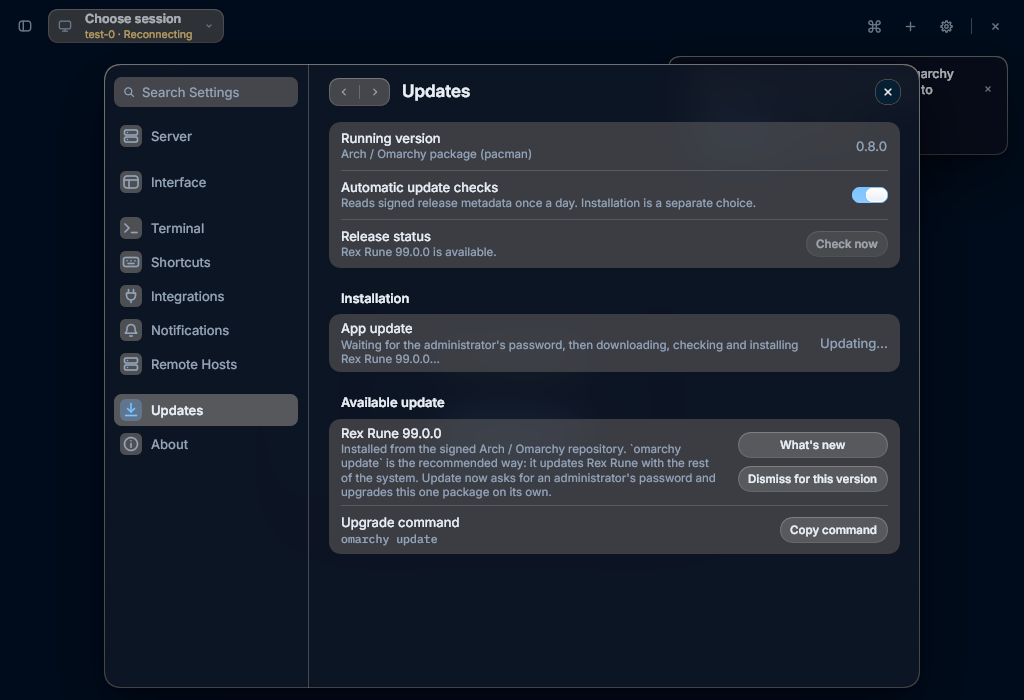
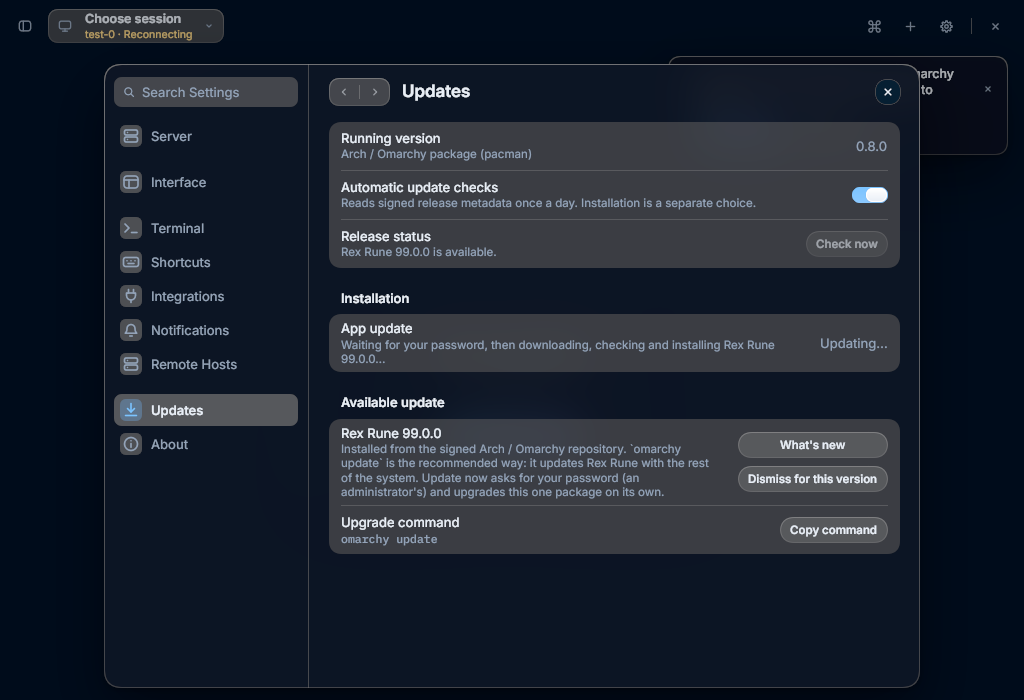
Review fixes: restart into the package's client, truer refusal sentences, 'your password', stated limits

Changed region(s): [[0.3438, 0.66, 0.6875, 0.72], [0.3438, 0.48, 0.7812, 0.54]]

diff --git a/src/app/updates_tests.rs b/src/app/updates_tests.rs
@@ -261,12 +261,16 @@ fn a_pacman_install_offers_update_now_only_with_its_own_helper() {
     let _families = rune::text::with_families("Inter", "Inter");
     for omarchy in [false, true] {
         let mut ws = pacman_workspace(omarchy);
+        ws.settings.updates.install_automatically = true;
         ws.open_updates_settings();
         let mut rt = runtime(ws);
         settle(&mut rt);
         assert!(has(&rt, "updates-install-now"));
         // Says what the button will do, and the command is still there to copy.
-        assert!(page_says(&rt, "asks for an administrator's password"));
+        assert!(page_says(
+            &rt,
+            "asks for your password (an administrator's)"
+        ));
         assert!(page_says(&rt, "this one package"));
         assert!(has(&rt, "updates-copy-command"));
         assert_eq!(
@@ -282,14 +286,16 @@ fn a_pacman_install_offers_update_now_only_with_its_own_helper() {
             }
         ));
         // Installing on its own is for install.sh installs: it would open a password
-        // dialog nobody asked for.
+        // dialog nobody asked for. The switch is not shown even if the preference was
+        // left on by such an install.
+        assert!(rt.state.settings.updates.install_automatically);
         assert!(!has(&rt, "updates-install-auto-switch"));
 
         // No helper (a package from before it, or no polkit): instructions only, as before.
         rt.update(|s, _| s.updates.pacman = None);
         settle(&mut rt);
         assert!(!has(&rt, "updates-install-now"));
-        assert!(!page_says(&rt, "administrator's password"));
+        assert!(!page_says(&rt, "asks for your password"));
         assert!(has(&rt, "updates-copy-command"));
         rt.state.install_update_now();
         assert!(matches!(rt.state.updates.installation, Installation::Idle));
@@ -341,14 +347,14 @@ fn a_pacman_update_reports_each_ending_and_restarts_only_after_an_upgrade() {
         rt.state.updates.installation,
         Installation::Working(_)
     ));
-    assert!(page_says(&rt, "Waiting for the administrator's password"));
+    assert!(page_says(&rt, "Waiting for your password"));
     assert!(!has(&rt, "updates-install-now"));
     assert!(!has(&rt, "updates-restart"));
     rt.state.check_updates_now();
     assert!(!rt.state.updates.checking, "no check during an update");
 
     // The dialog was closed: not a failure, nothing to restart, the button is back.
-    rt.update(|s, _| s.finish_pacman_update(Outcome::Dismissed, "/nonexistent/rex-rune".into()));
+    rt.update(|s, _| s.finish_pacman_update(Outcome::Dismissed));
     settle(&mut rt);
     assert!(matches!(rt.state.updates.installation, Installation::Idle));
     assert!(has(&rt, "updates-install-now"));
@@ -363,7 +369,7 @@ fn a_pacman_update_reports_each_ending_and_restarts_only_after_an_upgrade() {
 
     // Every refusal says why, never offers Restart, and leaves the command to copy.
     for (refusal, words) in [
-        (Refusal::NotAuthorized, "administrator's password"),
+        (Refusal::NotAuthorized, "probably no agent is running"),
         (Refusal::NotNewer, "already this version or newer"),
         (Refusal::HeldBack, "IgnorePkg"),
         (Refusal::Busy, "another pacman is running"),
@@ -371,16 +377,17 @@ fn a_pacman_update_reports_each_ending_and_restarts_only_after_an_upgrade() {
         (Refusal::Signature, "not signed by the Rex package key"),
         (Refusal::Untrusted, "pacman keyring does not trust"),
         (Refusal::WrongPackage, "something other than the package"),
-        (Refusal::OtherPackages, "other packages"),
+        (
+            Refusal::OtherPackages,
+            "could not work out how to install it",
+        ),
         (Refusal::Pacman, "journalctl -t rex-rune-update"),
         (Refusal::Unsupported, "systemd"),
         (Refusal::NoPkexec, "pkexec could not be started"),
         (Refusal::Unexpected(Some(1)), "exit code 1"),
-        (Refusal::Unexpected(None), "did not finish"),
+        (Refusal::Unexpected(None), "may still finish"),
     ] {
-        rt.update(|s, _| {
-            s.finish_pacman_update(Outcome::Refused(refusal), "/nonexistent/rex-rune".into())
-        });
+        rt.update(|s, _| s.finish_pacman_update(Outcome::Refused(refusal)));
         settle(&mut rt);
         assert!(
             matches!(&rt.state.updates.installation, Installation::Failed(e) if e.contains(words)),
@@ -392,9 +399,9 @@ fn a_pacman_update_reports_each_ending_and_restarts_only_after_an_upgrade() {
         assert!(has(&rt, "updates-install-now") && has(&rt, "updates-copy-command"));
     }
 
-    // An upgrade: Restart to finish, with the path this client was started from.
+    // An upgrade: Restart to finish.
     let restart = rt.state.restart.clone();
-    rt.update(|s, _| s.finish_pacman_update(Outcome::Installed, "/nonexistent/rex-rune".into()));
+    rt.update(|s, _| s.finish_pacman_update(Outcome::Installed));
     settle(&mut rt);
     assert!(has(&rt, "updates-restart"));
     assert!(!has(&rt, "updates-install-now"));
@@ -404,9 +411,11 @@ fn a_pacman_update_reports_each_ending_and_restarts_only_after_an_upgrade() {
         Installation::Ready(_)
     ));
     click(&mut rt, "updates-restart");
+    // The client the package installs, whatever path this process was started from: after
+    // a system upgrade under a running client, that path names a deleted file.
     assert_eq!(
         *restart.lock().unwrap(),
-        Some(std::path::PathBuf::from("/nonexistent/rex-rune"))
+        Some(std::path::PathBuf::from("/usr/bin/rex-rune"))
     );
     let _ = std::fs::remove_file(&rt.state.settings_path);
 }
@@ -494,15 +503,10 @@ fn pacman_update_draw() {
     click(&mut rt, "updates-install-now");
     settle(&mut rt);
     camera.snap(&mut rt, "pacman-update-waiting");
-    rt.update(|s, _| {
-        s.finish_pacman_update(
-            Outcome::Refused(Refusal::NotAuthorized),
-            "/nonexistent/rex-rune".into(),
-        )
-    });
+    rt.update(|s, _| s.finish_pacman_update(Outcome::Refused(Refusal::NotAuthorized)));
     settle(&mut rt);
     camera.snap(&mut rt, "pacman-update-refused");
-    rt.update(|s, _| s.finish_pacman_update(Outcome::Installed, "/nonexistent/rex-rune".into()));
+    rt.update(|s, _| s.finish_pacman_update(Outcome::Installed));
     settle(&mut rt);
     camera.snap(&mut rt, "pacman-update-ready");
 }

diff --git a/src/app/updates.rs b/src/app/updates.rs
@@ -13,7 +13,7 @@ use rex_rune::update::{
     InstallChannel, STARTUP_DELAY, UpdateState, check_for_updates,
     installer::{self, Progress},
     now_epoch_secs,
-    pacman::{Helper, Outcome},
+    pacman::{CLIENT, Helper, Outcome},
 };
 use rune::{Cursor, El, Tx, col, el, row, text};
 use rune_kit::Switch;
@@ -52,8 +52,8 @@ pub struct Updates {
 }
 
 /// The pacman install's own words once Update now can be offered for it.
-const PACMAN_DETAIL: &str = "Installed from the signed Arch repository. Update now asks for an administrator's password and upgrades this one package; restart when ready.";
-const OMARCHY_DETAIL: &str = "Installed from the signed Arch / Omarchy repository. `omarchy update` is the recommended way: it updates Rex Rune with the rest of the system. Update now asks for an administrator's password and upgrades this one package on its own.";
+const PACMAN_DETAIL: &str = "Installed from the signed Arch repository. Update now asks for your password (an administrator's) and upgrades this one package; restart when ready.";
+const OMARCHY_DETAIL: &str = "Installed from the signed Arch / Omarchy repository. `omarchy update` is the recommended way: it updates Rex Rune with the rest of the system. Update now asks for your password (an administrator's) and upgrades this one package on its own.";
 
 /// Whether this pacman install is Rex's own package, which is the one that has the helper.
 /// A package from elsewhere says how to update it in its marker (`custom_hint`).
@@ -559,17 +559,15 @@ impl Workspace {
     /// dialog and then for the whole update. The helper reports nothing until it ends.
     fn update_pacman_package(&mut self, helper: Helper, version: String) {
         self.updates.installation = Installation::Working(format!(
-            "Waiting for the administrator's password, then downloading, checking and installing Rex Rune {}…",
+            "Waiting for your password, then downloading, checking and installing Rex Rune {}…",
             rex_rune::format_version(&version)
         ));
-        // Where this client is, read before the package replaces the file there.
-        let binary = std::env::current_exe().unwrap_or_else(|_| "/usr/bin/rex-rune".into());
         let handle = self.handle.clone();
         let spawn = std::thread::Builder::new()
             .name("rex-pacman-update".into())
             .spawn(move || {
                 let outcome = helper.update(&version);
-                handle.update(move |s, _| s.finish_pacman_update(outcome, binary));
+                handle.update(move |s, _| s.finish_pacman_update(outcome));
             });
         if let Err(error) = spawn {
             self.updates.installation =
@@ -577,13 +575,14 @@ impl Workspace {
         }
     }
 
-    /// What the helper's exit means here. Only an upgrade offers Restart; a closed dialog
-    /// is not a failure; anything else names the reason and leaves the command to copy.
-    pub fn finish_pacman_update(&mut self, outcome: Outcome, binary: PathBuf) {
+    /// What the helper's exit means here. Only an upgrade offers Restart, into the client
+    /// the package installs; a closed dialog is not a failure; anything else names the
+    /// reason and leaves the command to copy.
+    pub fn finish_pacman_update(&mut self, outcome: Outcome) {
         self.updates.installation = match outcome {
             Outcome::Installed => {
                 self.inform("Update installed. Settings → Updates offers Restart to finish.");
-                Installation::Ready(binary)
+                Installation::Ready(CLIENT.into())
             }
             Outcome::Dismissed => {
                 self.inform("Update cancelled. Nothing was installed.");

diff --git a/src/update/pacman.rs b/src/update/pacman.rs
@@ -15,6 +15,10 @@ use std::{
 /// Where the package installs its helper, and where polkit allows it to be run from.
 pub const HELPER: &str = "/usr/lib/rex-rune/rex-rune-update";
 pub const PKEXEC: &str = "/usr/bin/pkexec";
+/// The client the package installs, and so the one to start after an upgrade. Not
+/// `current_exe()`: if the file was already replaced under this process (by a system
+/// upgrade), Linux reports the old one's path with " (deleted)" after it.
+pub const CLIENT: &str = "/usr/bin/rex-rune";
 
 /// The helper and the program that runs it as root, both present.
 #[derive(Clone, Debug, PartialEq, Eq)]
@@ -153,20 +157,20 @@ impl Refusal {
     /// Why nothing was installed, as the end of "Update failed: ". No full stop.
     pub fn sentence(&self) -> String {
         match self {
-            Self::NotAuthorized => "it was not authorized. It needs an administrator's password, which your desktop's polkit agent asks for; if no dialog appeared, no agent is running".into(),
+            Self::NotAuthorized => "it was not authorized. It needs your password (an administrator's), which your desktop's polkit agent asks for; if no dialog appeared, probably no agent is running".into(),
             Self::NotNewer => "the installed package is already this version or newer, or is not rex-rune-bin. If it was updated another way, restart Rex Rune".into(),
             Self::HeldBack => "rex-rune-bin is held back in pacman.conf (IgnorePkg or IgnoreGroup)".into(),
             Self::Busy => "another update or another pacman is running. Try again when it has finished".into(),
             Self::Download => "the package could not be downloaded from pkg.shuv.dev. A new release can take a few minutes to appear there".into(),
             Self::Signature => "the package was not signed by the Rex package key, or that key has expired. Nothing was installed".into(),
-            Self::Untrusted => "this computer's pacman keyring does not trust the Rex package key. Nothing was installed".into(),
+            Self::Untrusted => "this computer's pacman keyring does not trust the Rex package key (it may be missing, not locally signed, or revoked). Nothing was installed".into(),
             Self::WrongPackage => "the package site served something other than the package asked for. Nothing was installed".into(),
-            Self::OtherPackages => "installing it would change other packages too".into(),
+            Self::OtherPackages => "installing it would change other packages too, or pacman could not work out how to install it".into(),
             Self::Pacman => "pacman refused or failed; `journalctl -t rex-rune-update` has its words".into(),
             Self::Unsupported => "this system cannot run the update helper (it needs systemd), or the update did not finish; `journalctl -t rex-rune-update` says which".into(),
             Self::NoPkexec => "pkexec could not be started".into(),
             Self::Unexpected(Some(code)) => format!("the update helper ended with exit code {code}"),
-            Self::Unexpected(None) => "the update helper did not finish".into(),
+            Self::Unexpected(None) => "the update helper stopped before reporting. The update may still finish; check with Check now after a minute".into(),
         }
     }
 }

diff --git a/src/main.rs b/src/main.rs
@@ -67,7 +67,7 @@ fn main() -> anyhow::Result<()> {
 
 fn notify_restart_failure(error: &anyhow::Error) {
     let message = format!(
-        "Rex could not restart: {error:#}. Open Rex again; if it still fails, repair with install.sh. Server sessions are still running."
+        "Rex could not restart: {error:#}. Open Rex again; if it still fails, repair the installation (run install.sh again, or reinstall the package). Server sessions are still running."
     );
     // The Rune event loop and fonts cannot be initialized twice in this process.
     // Use our existing desktop notification transport, without an external utility.

diff --git a/docs/self-updates.md b/docs/self-updates.md
@@ -10,7 +10,7 @@ arguments, including `--config`, `--font`, `--font-size` and `--window-size`, ar
 preserved, except `--new`: session creation is never replayed. Rex server sessions
 keep running. If re-exec fails after the window closes, Rex sends a critical desktop
 notification through the session notification service (and logs any delivery failure
-to stderr); reopen Rex or repair with install.sh.
+to stderr); reopen Rex or repair the installation.
 
 ## Eligibility and trust
 
@@ -185,7 +185,8 @@ Rune with the rest of the system.
 
 **Update now** runs `pkexec --disable-internal-agent /usr/lib/rex-rune/rex-rune-update
 <version>` on a worker thread and waits. Your desktop's polkit agent asks for an
-administrator's password; nothing runs before that. The client passes the version and
+administrator's password (on a one-person Arch or Omarchy machine, your own); nothing
+runs before that. The client passes the version and
 reads an exit code, and that is all it does: the helper downloads the package itself
 from the Rex package site, checks it against the Rex package key shipped in the
 package and against this computer's pacman keyring, refuses anything but a newer
@@ -204,10 +205,25 @@ What the page says afterwards:
 
 | Ending | Shown |
 | --- | --- |
-| Upgraded | **Restart to finish**, as for an install.sh update |
+| Upgraded | **Restart to finish**, as for an install.sh update. It starts `/usr/bin/rex-rune`, the client the package installs |
 | The dialog was closed | "Update cancelled. Nothing was installed."; **Update now** is back |
 | Not authorized, or no polkit agent running | Why, with the command to copy |
 | Any refusal by the helper (held back by `IgnorePkg`, another pacman running, a download or signature problem, a key this computer does not trust, other packages would change, pacman failed, no systemd) | The reason in a sentence, with the command to copy. `journalctl -t rex-rune-update` has the helper's own words |
+
+Limits, as built:
+
+- The waiting line has no time limit of its own. It ends when `pkexec` does: the helper
+  bounds its downloads, but a dialog nobody answers stays, and the page waits with it.
+  Restarting Rex clears it.
+- Quitting Rex after the password was given does not stop the update. Quitting while
+  the dialog is still open leaves that to polkit: the dialog may stay until dismissed,
+  and nothing is installed unless it is answered.
+- The helper is looked for once, at start, so a package that gains it while Rex runs
+  offers Update now after a restart. If the package was already upgraded another way
+  while Rex runs, Update now says the installed package is already this version or
+  newer; restart Rex to use it.
+- A release that needs a manual upgrade first (a floor) shows instructions only, as
+  for install.sh installs.
 
 It never starts on its own: **Install updates automatically** applies to install.sh
 installs only, since a password dialog nobody asked for would be worse than a notice.
